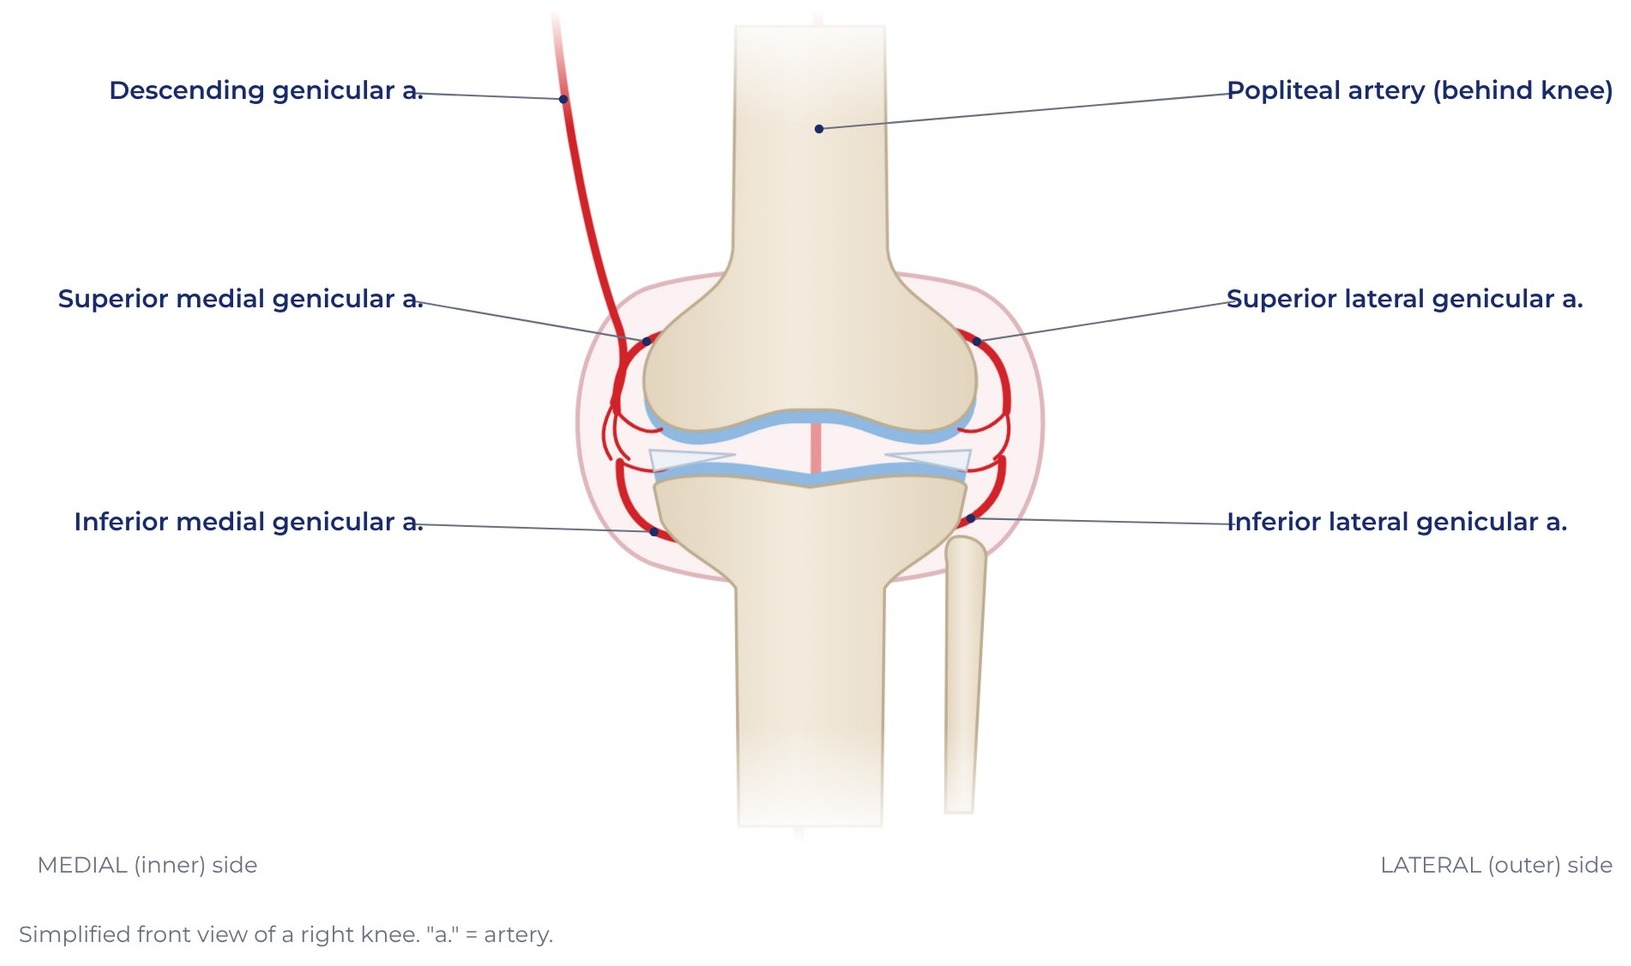
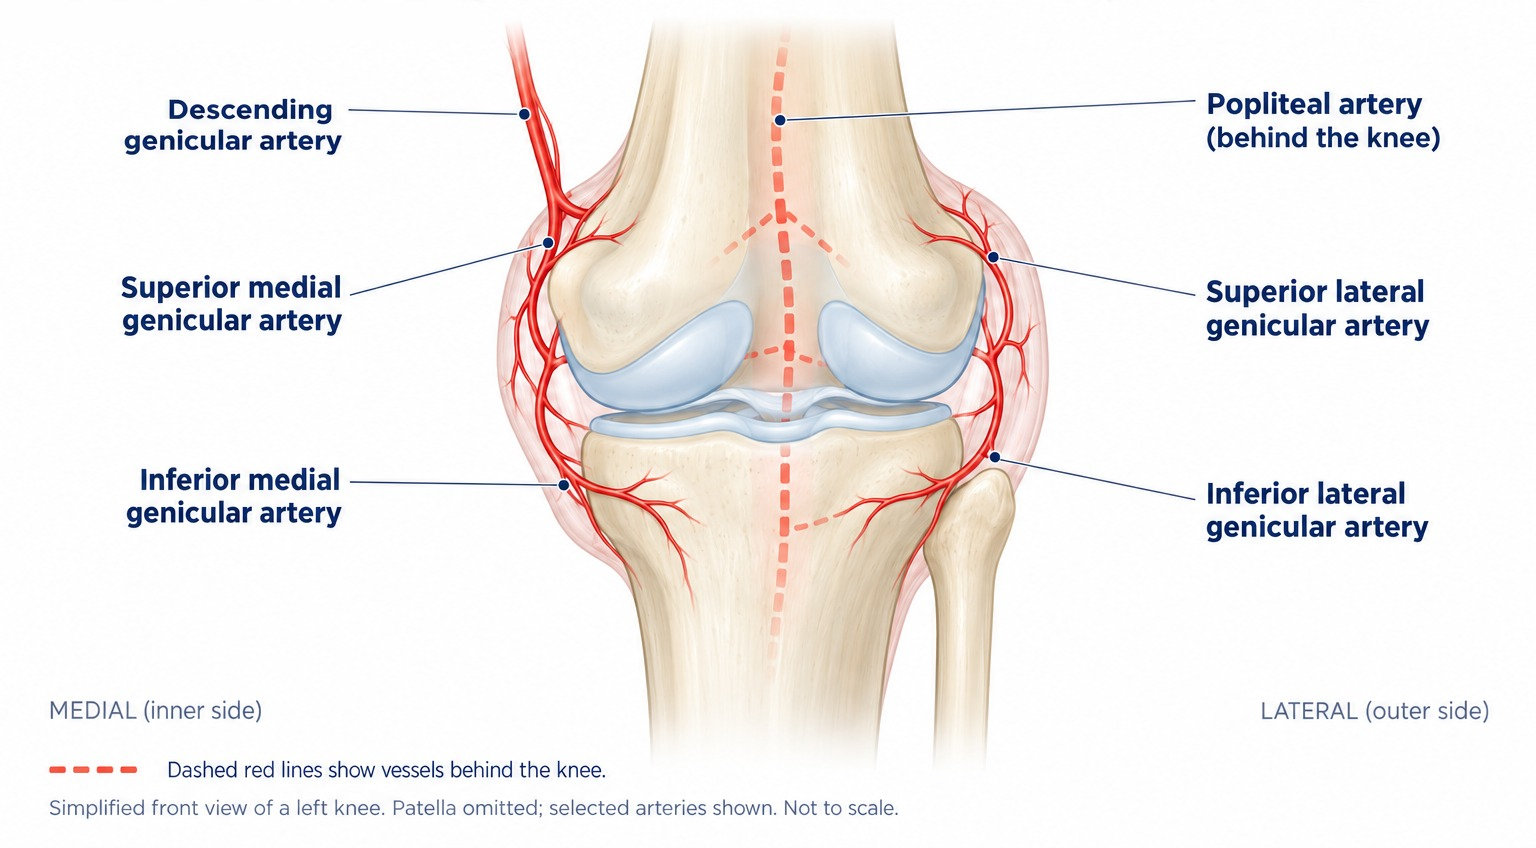
Flip J12a: new genicular arteries illustration
Claude-Session: https://claude.ai/code/session_011FeJdRfmDCgTZcMtNMgwbg

diff --git a/js/templates.js b/js/templates.js
@@ -751,7 +751,7 @@ window.AJPVC_TEMPLATES = [
     "label": "J12a · The Genicular Arteries (patient side)",
     "w": 1056,
     "h": 816,
-    "html": "<div style=\"width: 1056px; height: 816px; box-sizing: border-box; background: #FFFEFB; color: #1B2440; font-family: 'Public Sans', sans-serif; display: flex; flex-direction: column; padding: 34px 44px 26px; gap: 20px\">\n<div style=\"display: flex; justify-content: space-between; align-items: flex-end; gap: 24px; border-bottom: 5px solid #C8231E; padding-bottom: 14px\">\n<div style=\"display: flex; flex-direction: column; gap: 4px\"><p style=\"margin: 0; font-family: 'Montserrat', sans-serif; font-weight: 700; font-size: 15px; letter-spacing: 3px; text-transform: uppercase; color: #C8231E\">Joint pain</p>\n<h1 style=\"margin: 0; font-family: 'Montserrat', sans-serif; font-weight: 800; font-size: 44px; line-height: 1.05; color: #16306E\">The Genicular Arteries</h1></div>\n<div style=\"display: flex; align-items: center; gap: 14px\"><img src=\"assets/logo-hvlc.png\" alt=\"Heart Vascular &amp; Leg Center logo\" style=\"height: 34px; width: 78px; object-fit: contain; object-position: left center\"><span style=\"width: 1px; height: 27px; background: #E2DED4\"></span><img src=\"assets/logo-long-nodivision.png\" alt=\"Advanced Joint Pain &amp; Vascular Center logo\" style=\"height: 34px; width: 129px; object-fit: contain; object-position: left center\"></div></div>\n<main style=\"flex: 1; min-height: 0; display: flex; flex-direction: column; gap: 16px\"><div style=\"flex: 1; min-height: 0; display: flex; flex-direction: column; gap: 10px\"><div style=\"flex: 1; min-height: 0; min-width: 0; background: #FFFFFF; border-radius: 18px; overflow: hidden; display: flex\"><img src=\"assets/book-arteries.jpg\" alt=\"Front-view illustration of a knee joint with labeled genicular arteries: descending, superior medial and lateral, inferior medial and lateral, and the popliteal artery behind the knee.\" style=\"width: 100%; height: 100%; object-fit: contain; object-position: 50% 50%; display: block\"></div></div><div style=\"display: flex; gap: 24px\"><div style=\"flex: 1; min-width: 0; display: flex; gap: 12px; align-items: flex-start; border-top: 4px solid #C8231E; padding-top: 12px\"><p style=\"margin: 0; font-size: 22px; line-height: 1.32; color: #1B2440\">A ring of small arteries surrounds the knee.</p></div><div style=\"flex: 1; min-width: 0; display: flex; gap: 12px; align-items: flex-start; border-top: 4px solid #C8231E; padding-top: 12px\"><p style=\"margin: 0; font-size: 22px; line-height: 1.32; color: #1B2440\">The branches differ from person to person.</p></div><div style=\"flex: 1; min-width: 0; display: flex; gap: 12px; align-items: flex-start; border-top: 4px solid #C8231E; padding-top: 12px\"><p style=\"margin: 0; font-size: 22px; line-height: 1.32; color: #1B2440\">Careful mapping helps protect healthy tissue.</p></div></div></main></div>"
+    "html": "<div style=\"width: 1056px; height: 816px; box-sizing: border-box; background: #FFFEFB; color: #1B2440; font-family: 'Public Sans', sans-serif; display: flex; flex-direction: column; padding: 34px 44px 26px; gap: 20px\">\n<div style=\"display: flex; justify-content: space-between; align-items: flex-end; gap: 24px; border-bottom: 5px solid #C8231E; padding-bottom: 14px\">\n<div style=\"display: flex; flex-direction: column; gap: 4px\"><p style=\"margin: 0; font-family: 'Montserrat', sans-serif; font-weight: 700; font-size: 15px; letter-spacing: 3px; text-transform: uppercase; color: #C8231E\">Joint pain</p>\n<h1 style=\"margin: 0; font-family: 'Montserrat', sans-serif; font-weight: 800; font-size: 44px; line-height: 1.05; color: #16306E\">The Genicular Arteries</h1></div>\n<div style=\"display: flex; align-items: center; gap: 14px\"><img src=\"assets/logo-hvlc.png\" alt=\"Heart Vascular &amp; Leg Center logo\" style=\"height: 34px; width: 78px; object-fit: contain; object-position: left center\"><span style=\"width: 1px; height: 27px; background: #E2DED4\"></span><img src=\"assets/logo-long-nodivision.png\" alt=\"Advanced Joint Pain &amp; Vascular Center logo\" style=\"height: 34px; width: 129px; object-fit: contain; object-position: left center\"></div></div>\n<main style=\"flex: 1; min-height: 0; display: flex; flex-direction: column; gap: 16px\"><div style=\"flex: 1; min-height: 0; display: flex; flex-direction: column; gap: 10px\"><div style=\"flex: 1; min-height: 0; min-width: 0; background: #FFFFFF; border-radius: 18px; overflow: hidden; display: flex\"><img src=\"assets/book-arteries.jpg\" alt=\"Front view of a left knee showing the descending, superior medial, inferior medial, superior lateral and inferior lateral genicular arteries branching from the popliteal artery behind the knee\" style=\"width: 100%; height: 100%; object-fit: contain; object-position: 50% 50%; display: block\"></div></div><div style=\"display: flex; gap: 24px\"><div style=\"flex: 1; min-width: 0; display: flex; gap: 12px; align-items: flex-start; border-top: 4px solid #C8231E; padding-top: 12px\"><p style=\"margin: 0; font-size: 22px; line-height: 1.32; color: #1B2440\">A ring of small arteries surrounds the knee.</p></div><div style=\"flex: 1; min-width: 0; display: flex; gap: 12px; align-items: flex-start; border-top: 4px solid #C8231E; padding-top: 12px\"><p style=\"margin: 0; font-size: 22px; line-height: 1.32; color: #1B2440\">The branches differ from person to person.</p></div><div style=\"flex: 1; min-width: 0; display: flex; gap: 12px; align-items: flex-start; border-top: 4px solid #C8231E; padding-top: 12px\"><p style=\"margin: 0; font-size: 22px; line-height: 1.32; color: #1B2440\">Careful mapping helps protect healthy tissue.</p></div></div></main></div>"
    },
    {
     "label": "J12b · The Genicular Arteries (provider side)",

diff --git a/source/FlipJ12Arteries.dc.html b/source/FlipJ12Arteries.dc.html
@@ -18,7 +18,7 @@ body{margin:0}
 <div style="display: flex; flex-direction: column; gap: 4px"><p style="margin: 0; font-family: 'Montserrat', sans-serif; font-weight: 700; font-size: 15px; letter-spacing: 3px; text-transform: uppercase; color: #C8231E">Joint pain</p>
 <h1 style="margin: 0; font-family: 'Montserrat', sans-serif; font-weight: 800; font-size: 44px; line-height: 1.05; color: #16306E">The Genicular Arteries</h1></div>
 <div style="display: flex; align-items: center; gap: 14px"><img src="/_blob/1e4ce51a5c3cb793b6317890e43e495e" alt="Heart Vascular &amp; Leg Center logo" style="height: 34px; width: 78px; object-fit: contain; object-position: left center"><span style="width: 1px; height: 27px; background: #E2DED4"></span><img src="/_blob/48c0202744b17fe1f033a36586de7a92" alt="Advanced Joint Pain &amp; Vascular Center logo" style="height: 34px; width: 129px; object-fit: contain; object-position: left center"></div></div>
-<main style="flex: 1; min-height: 0; display: flex; flex-direction: column; gap: 16px"><div style="flex: 1; min-height: 0; display: flex; flex-direction: column; gap: 10px"><div style="flex: 1; min-height: 0; min-width: 0; background: #FFFFFF; border-radius: 18px; overflow: hidden; display: flex"><img src="/_blob/6500fd82635827de527c07aa6f73bb86" alt="Front-view illustration of a knee joint with labeled genicular arteries: descending, superior medial and lateral, inferior medial and lateral, and the popliteal artery behind the knee." style="width: 100%; height: 100%; object-fit: contain; object-position: 50% 50%; display: block"></div></div><div style="display: flex; gap: 24px"><div style="flex: 1; min-width: 0; display: flex; gap: 12px; align-items: flex-start; border-top: 4px solid #C8231E; padding-top: 12px"><p style="margin: 0; font-size: 22px; line-height: 1.32; color: #1B2440">A ring of small arteries surrounds the knee.</p></div><div style="flex: 1; min-width: 0; display: flex; gap: 12px; align-items: flex-start; border-top: 4px solid #C8231E; padding-top: 12px"><p style="margin: 0; font-size: 22px; line-height: 1.32; color: #1B2440">The branches differ from person to person.</p></div><div style="flex: 1; min-width: 0; display: flex; gap: 12px; align-items: flex-start; border-top: 4px solid #C8231E; padding-top: 12px"><p style="margin: 0; font-size: 22px; line-height: 1.32; color: #1B2440">Careful mapping helps protect healthy tissue.</p></div></div></main></div>
+<main style="flex: 1; min-height: 0; display: flex; flex-direction: column; gap: 16px"><div style="flex: 1; min-height: 0; display: flex; flex-direction: column; gap: 10px"><div style="flex: 1; min-height: 0; min-width: 0; background: #FFFFFF; border-radius: 18px; overflow: hidden; display: flex"><img src="/_blob/4a6c2a186c163c9dfec9ec1797b17108" alt="Front view of a left knee showing the descending, superior medial, inferior medial, superior lateral and inferior lateral genicular arteries branching from the popliteal artery behind the knee" style="width: 100%; height: 100%; object-fit: contain; object-position: 50% 50%; display: block"></div></div><div style="display: flex; gap: 24px"><div style="flex: 1; min-width: 0; display: flex; gap: 12px; align-items: flex-start; border-top: 4px solid #C8231E; padding-top: 12px"><p style="margin: 0; font-size: 22px; line-height: 1.32; color: #1B2440">A ring of small arteries surrounds the knee.</p></div><div style="flex: 1; min-width: 0; display: flex; gap: 12px; align-items: flex-start; border-top: 4px solid #C8231E; padding-top: 12px"><p style="margin: 0; font-size: 22px; line-height: 1.32; color: #1B2440">The branches differ from person to person.</p></div><div style="flex: 1; min-width: 0; display: flex; gap: 12px; align-items: flex-start; border-top: 4px solid #C8231E; padding-top: 12px"><p style="margin: 0; font-size: 22px; line-height: 1.32; color: #1B2440">Careful mapping helps protect healthy tissue.</p></div></div></main></div>
 </x-dc>
 <script type="text/x-dc" data-dc-script data-props='{"$preview":{"width":1056,"height":816}}'>
 class Component extends DCLogic {
